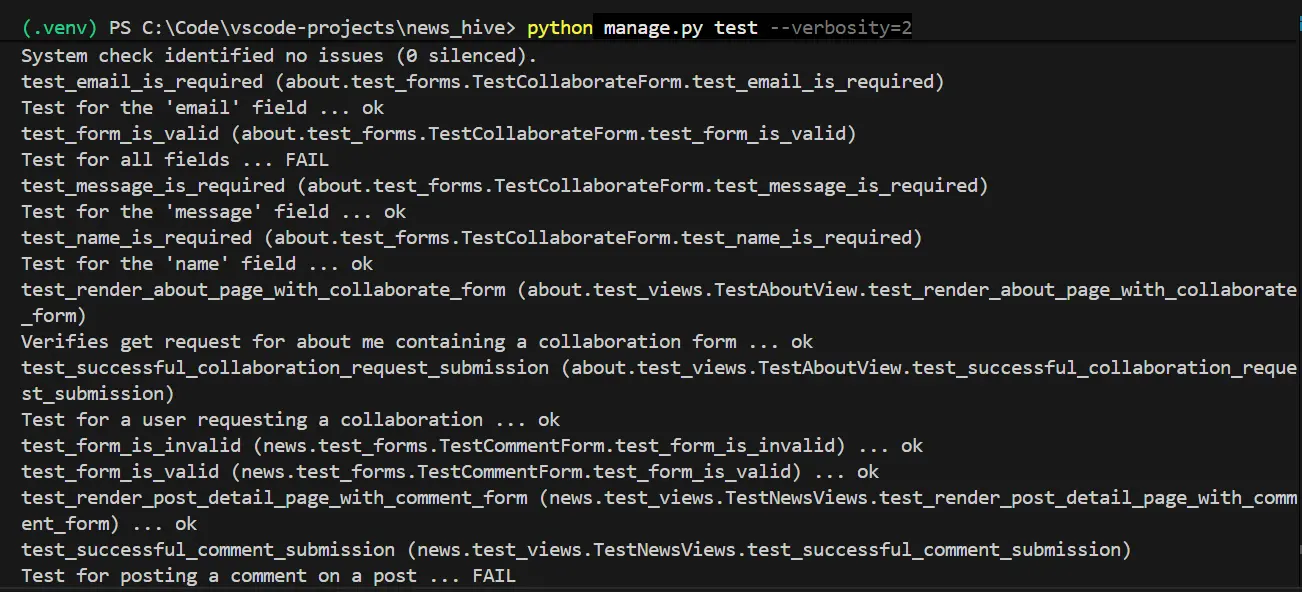
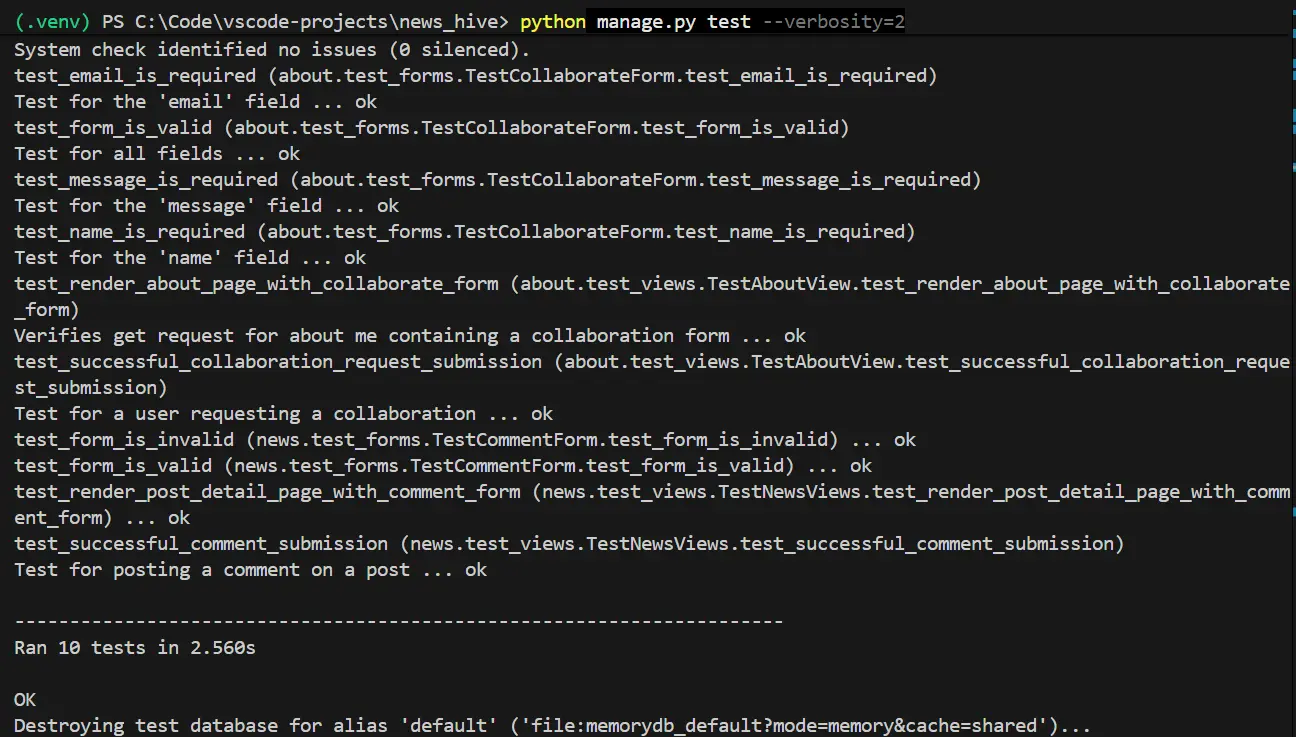
Update Testing on ReadMe file

diff --git a/news/test_views.py b/news/test_views.py
@@ -35,7 +35,7 @@ class TestNewsViews(TestCase):
             'body': 'This is a test comment.'
         }                                                   # post_data dictionary, contains the data posted to the database
         response = self.client.post(reverse(
-            'post_detail', args=['news']), post_data)  # POST request, with self.client.post method
+            'post_detail', args=['news-title']), post_data)  # POST request, with self.client.post method
         self.assertEqual(response.status_code, 200)
         self.assertIn(
             b'Comment submitted and awaiting approval',  # b, syntax for creating byte strings as per internet data format